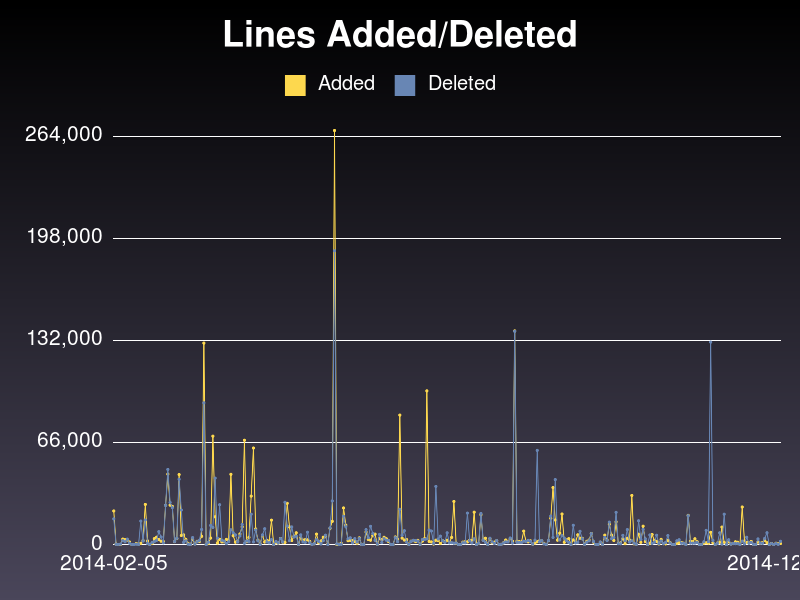
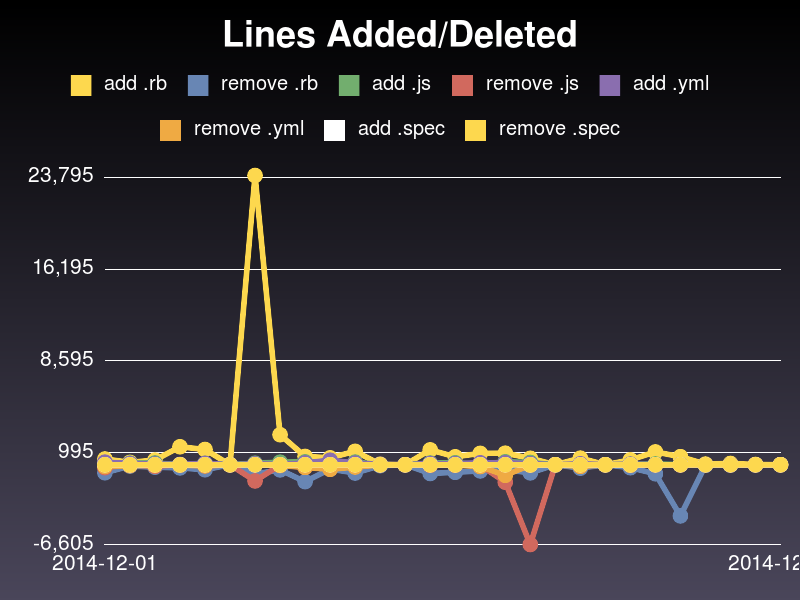
Change to data_stats for various file type

diff --git a/git_stats/line_plot_by_date.rb b/git_stats/line_plot_by_date.rb
@@ -1,35 +1,59 @@
 class LinePlotByDate
   attr_reader :title
-  attr_reader :date_labels
   attr_reader :data_sets
   attr_reader :outfile
 
-  def initialize(title, date_labels, data, outfile)
+  def initialize(title, data_sets, outfile)
     @title = title
-    @date_labels = date_labels
-    @data_sets = data
+    @data_sets = data_sets
     @outfile = outfile
   end
 
   def export_file
     g = Gruff::Line.new
     g.title = @title
-    g.labels = formulate_labels @date_labels
-    @data_sets.each do |data|
-      g.data data[:name].to_sym, data[:value]
+    g.labels = formulate_labels @data_sets
+    formulate_data(@data_sets).each do |key, value|
+      g.data key.to_sym, value
     end
     g.write("#{@outfile}.png")
   end
 
   private
-  def formulate_labels labels
+  def formulate_labels data
+    labels = data.keys
     formated_labels = labels.map do |label|
       if label == labels.first || label == labels.last
-        label
+        label.to_s
       else
         " "
       end
     end
     Hash[(0..labels.size).zip formated_labels]
+  end
+
+  def formulate_data period_stats
+    period_data = {
+      "add .rb" => [],
+      "remove .rb" => [],
+      "add .js" => [],
+      "remove .js" => [],
+      "add .yml" => [],
+      "remove .yml" => [],
+      "add .spec" => [],
+      "remove .spec" => []
+    }
+    period_stats.each_value do |date_stats|
+      file_stats = date_stats.file_type_stats
+      file_stats.each do |file_key, file_value|
+        next if file_key == "others"
+        file_value.each do |type, value|
+          name = "#{type.to_s} #{file_key}"
+          value = (type == :remove) ? -value : value
+          period_data[name].push(value)
+        end
+      end
+    end
+    period_data
   end
 end

diff --git a/line_code_analizer.rb b/line_code_analizer.rb
@@ -5,6 +5,7 @@ require "fileutils"
 require "date"
 require "rubygems"
 require "gruff"
+require "pry-rails"
 require "./git_stats/author"
 require "./git_stats/yearmonth"
 require "./git_stats/git"
@@ -30,7 +31,7 @@ $options = {
 }
 
 parser = OptionParser.new do |opts|
-  opts.banner = "Usage git_stats.rb -r [resposibility] -p [path] -b [branch] -f [from_YYYY-MM-DD] -t [to_YYYY-MM-DD] -c [classify based on file type]"
+  opts.banner = "Usage line_code_analizer.rb -r [resposibility] -p [path] -b [branch] -f [from_YYYY-MM-DD] -t [to_YYYY-MM-DD] -c [classify based on file type]"
 
   opts.on("-r", "--respos=arg", "resposibility name") do |arg|
     $options[:respos] = arg
@@ -63,14 +64,5 @@ stats.start_date = Date.parse($options[:start_date]) unless $options[:start_date
 stats.end_date = Date.parse($options[:end_date])
 stats << [$options[:respos], $options[:path], "HEAD"]
 stats.calc($options[:branch])
-date_stats = stats.date_stats.map{|k, _| k.to_s}
-stats_lines_added = {name: "Added",
-  value: stats.date_stats.map{|_, v| v.lines_added}}
-stats_lines_deleted ={name: "Deleted",
-  value: stats.date_stats.map{|_, v| v.lines_deleted}}
-line_graph_data = [stats_lines_added, stats_lines_deleted]
-line_graph = LinePlotByDate.new("Lines Added/Deleted", date_stats, line_graph_data, "line_stats_by_date" )
+line_graph = LinePlotByDate.new("Lines Added/Deleted", stats.date_stats, "line_stats_by_date" )
 line_graph.export_file
-file_types = stats.file_category_stats.collect{|f| f.type}
-file_stats_bar_chart = BarChart.new("File type stats", file_types, stats.file_category_stats, "file_type_stats")
-file_stats_bar_chart.export_file

diff --git a/git_stats/stats/commit.rb b/git_stats/stats/commit.rb
@@ -5,6 +5,7 @@ class CommitStats
   attr_reader :lines_added
   attr_reader :lines_deleted
   attr_reader :files
+  attr_reader :file_type_stats
   attr_reader :lines
   attr_reader :first_commit
   attr_reader :last_commit
@@ -20,6 +21,13 @@ class CommitStats
     @lines_added = 0
     @lines_deleted = 0
     @files = 0
+    @file_type_stats = {
+      ".rb" => {add: 0, remove: 0},
+      ".js" => {add: 0, remove: 0},
+      ".yml" => {add: 0, remove: 0},
+      ".spec" => {add: 0, remove: 0},
+      "others" => {add: 0, remove: 0},
+    }
     @lines = 0
     @first_commit = nil
     @last_commit = nil
@@ -34,6 +42,10 @@ class CommitStats
     @lines_deleted += commit[:lines_deleted]
     @files = @files_added - @files_deleted
     @lines = @lines_added - @lines_deleted
+    @file_type_stats.keys.each do |key|
+      @file_type_stats[key][:add] += commit[:file_stats][key][:add]
+      @file_type_stats[key][:remove] += commit[:file_stats][key][:remove]
+    end
 
     @first_commit ||= commit[:time]
     @last_commit ||= commit[:time]

diff --git a/git_stats/statgen.rb b/git_stats/statgen.rb
@@ -48,7 +48,7 @@ class StatGen
     @hour_stats = HourCommitStats.new
     @wday_stats = DayOfWeekCommitStats.new
     @lastweeks_stats = LastWeeksCommitStats.new
-    @file_category_stats = [".rb", ".js", ".yml", "others"].map do |type|
+    @file_category_stats = [".rb", ".js", ".yml", ".spec", "others"].map do |type|
       file_cat = FileCategory.new
       file_cat.type = type
       file_cat

diff --git a/git_stats/git.rb b/git_stats/git.rb
@@ -98,6 +98,7 @@ class Git
           ".rb" => {add: 0, remove: 0},
           ".js" => {add: 0, remove: 0},
           ".yml" => {add: 0, remove: 0},
+          ".spec" => {add: 0, remove: 0},
           "others" => {add: 0, remove: 0}
         }
       elsif line == ''
